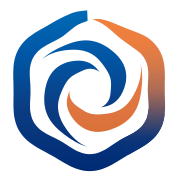
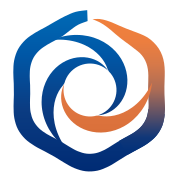
Make the three arms read as a circle inside, a triangle outside
The arms were built as centreline +/- half-thickness, so their inner and outer
edges necessarily shared a shape: the outer envelope's 6-fold modulation
pulled the central hole hexagonal with it. Measured against the original, the
hole came out at 10.3% cos(3t) where the original has 4.7% — visibly angular.

sample() now takes the two edges as independent radius functions. Each arm's
inner edge parks on the hole circle for the first 120 degrees of its sweep
while the outer edge spirals away, so the hole closes as a true circle and the
three outer edges form the rounded triangle.

Measured on the render, against the original in brackets:

  outer envelope   cos(3t) 16.2%, phase -32.8   [12.8%, -32.1]
  central hole     cos(3t)  0.0%               [ 4.7%]

The envelope reads stronger than the original because the original's three
arms are unequal; peak (.754 vs .757) and valley (.452 vs .462) match, which
is the meaningful comparison for a regular mark.

P_ARM = 120/S_ARM is a constraint, not a knob: below it some angle has no arm
holding the circle and the hole goes triangular again. S_ARM=200 is the
compromise — longer thins the blades to wire, shorter fattens them past the
ring. Orange also moves to the arm that traces the original's orange crescent
(left, through the bottom, out to the right).

diff --git a/logos/gerar-logo.py b/logos/gerar-logo.py
@@ -7,7 +7,15 @@ de verdade: um anel hexagonal quase fechado mais tres bracos em espiral
 logaritmica a ~120 graus, o vortice.
 
 As proporcoes nao foram chutadas: sairam de uma segmentacao polar do PNG
-original (raio, espessura e extensao angular de cada arco, por cor).
+original (raio, espessura e extensao angular de cada arco, por cor) e dos
+harmonicos dos contornos. Os tres numeros que mandam na leitura da marca:
+
+  contorno externo do anel   cos(6t) a 4,0%     -> hexagono
+  contorno externo dos tres  cos(3t) a 12,8%    -> triangulo arredondado
+  furo do meio               cos(3t) a  4,7%    -> circulo
+
+Perder qualquer um deles descaracteriza a marca — o miolo virar hexagono junto
+com o anel foi exatamente o erro da primeira versao.
 
 Uso:  python logos/gerar-logo.py
 Depois:  node logos/rasterizar.mjs   (icones PNG, usa o sharp do projeto)
@@ -46,17 +54,29 @@ def afila(s, inicio, expoente):
     return max(0.0, 1.0 - (s - inicio) / (1.0 - inicio)) ** expoente
 
 
-def sample(a0, sweep, rfn, wfn, amp, n):
-    """Amostra as duas bordas de uma fita: rfn da o eixo, wfn a meia-espessura."""
+def sample(a0, sweep, r_ext, r_int, amp, n):
+    """Amostra as duas bordas de uma fita, cada uma com seu proprio raio.
+
+    Independentes de proposito: nos bracos a borda interna fica parada sobre o
+    circulo do miolo enquanto a externa gira pra fora. E o que faz o centro ler
+    como circulo e o contorno dos tres como triangulo arredondado — com
+    `eixo +/- espessura` as duas bordas teriam a mesma forma, e o furo saia
+    triangular junto.
+    """
     out, inn = [], []
     for i in range(n + 1):
         s = i / n
         th = a0 + sweep * s
-        r = rfn(s, th) * hexmod(th, amp)
-        w = wfn(s)
-        out.append(pt(r + w, th))
-        inn.append(pt(r - w, th))
+        h = hexmod(th, amp)
+        out.append(pt(r_ext(s, th) * h, th))
+        inn.append(pt(r_int(s, th) * h, th))
     return out, inn
+
+
+def fita(rfn, wfn):
+    """Adapta eixo + meia-espessura para o par de bordas do `sample`."""
+    return (lambda s, th: rfn(s, th) + wfn(s),
+            lambda s, th: rfn(s, th) - wfn(s))
 
 
 def catmull(p):
@@ -105,7 +125,7 @@ def _ring_r(s, th):
 def ring_blue():
     def wfn(s):                       # cinzel na cabeca, o pico do topo
         return 0.5 * THK * (0.62 + 0.38 * min(1.0, s / 0.09))
-    return sample(A_RING, 250, _ring_r, wfn, HEX, 30)
+    return sample(A_RING, 250, *fita(_ring_r, wfn), amp=HEX, n=30)
 
 
 def ring_orange():
@@ -113,17 +133,32 @@ def ring_orange():
         return 0.5 * THK * afila(s, 0.70, 0.85)
     # Comeca em 300 e nao em 330: o corte reto da traseira precisa cair onde a
     # rampa "oa" ja e azul puro, senao ele mesmo vira a aresta que veio evitar.
-    return sample(A_RING + 208, 148, _ring_r, wfn, HEX, 26)
+    return sample(A_RING + 208, 148, *fita(_ring_r, wfn), amp=HEX, n=26)
 
 
 # --- bracos -----------------------------------------------------------------
+# Roseta de tres laminas, ajustada aos perfis medidos no original: contorno
+# externo em 3-fold (triangulo arredondado) com pico .757 e vale .462 na fase
+# -32 graus, furo do meio circular em .32. Sem hexmod aqui — o 3-fold vem do
+# arranjo das tres, nao de modulacao.
+#
+# S=200 e o ponto do compromisso: braco mais longo afina a lamina (em 245 a
+# marca vira fiapo) e mais curto engorda demais. P_ARM = 120/S nao e ajuste
+# solto — e o minimo para o furo fechar em circulo: abaixo disso sobra angulo
+# sem nenhum braco com a borda interna parada, e o miolo sai triangular.
+A_ARM, S_ARM, R_FURO, K_ARM = 47.0, 200.0, 0.320 * R, 0.861
+P_ARM = 120.0 / S_ARM              # fracao do arco com a borda interna parada
+
+
 def arm(a0):
-    r0, r1, wmax, sweep = 0.250 * R, 0.680 * R, 0.108 * R, 205
-    k = math.log(r1 / r0)
-    # Lente: espessura zero nas duas pontas, cheia no meio. Expoente acima de 1
-    # alonga o afilamento — no original as pontas sao laminas, nao dedos.
-    wfn = lambda s: wmax * math.sin(math.pi * s) ** 1.35
-    return sample(a0, sweep, lambda s, th: r0 * math.exp(k * s), wfn, 0.012, 30)
+    def r_ext(s, th):
+        return R_FURO * math.exp(K_ARM * s)
+
+    def r_int(s, th):
+        u = max(0.0, (s - P_ARM) / (1.0 - P_ARM))
+        return R_FURO * math.exp(K_ARM * u)
+
+    return sample(a0, S_ARM, r_ext, r_int, amp=0.0, n=34)
 
 
 def build():
@@ -131,9 +166,14 @@ def build():
 
     O anel laranja usa a rampa "oa", que apaga no rabo: no original ele nao
     encosta no azul, dissolve nele entre 320 e 0 graus.
+
+    Laranja e o braco de A_ARM+120: e o que sai da esquerda, passa pelo fundo e
+    termina apontando pra direita — o mesmo tracado do arco laranja do original.
+    Vai por ultimo para ficar por cima dos azuis, como la.
     """
     return [("b", d_of(*ring_blue())), ("oa", d_of(*ring_orange())),
-            ("b", d_of(*arm(62))), ("o", d_of(*arm(182))), ("b", d_of(*arm(302)))]
+            ("b", d_of(*arm(A_ARM))), ("b", d_of(*arm(A_ARM + 240))),
+            ("o", d_of(*arm(A_ARM + 120)))]
 
 
 # ---------------------------------------------------------------- saidas
